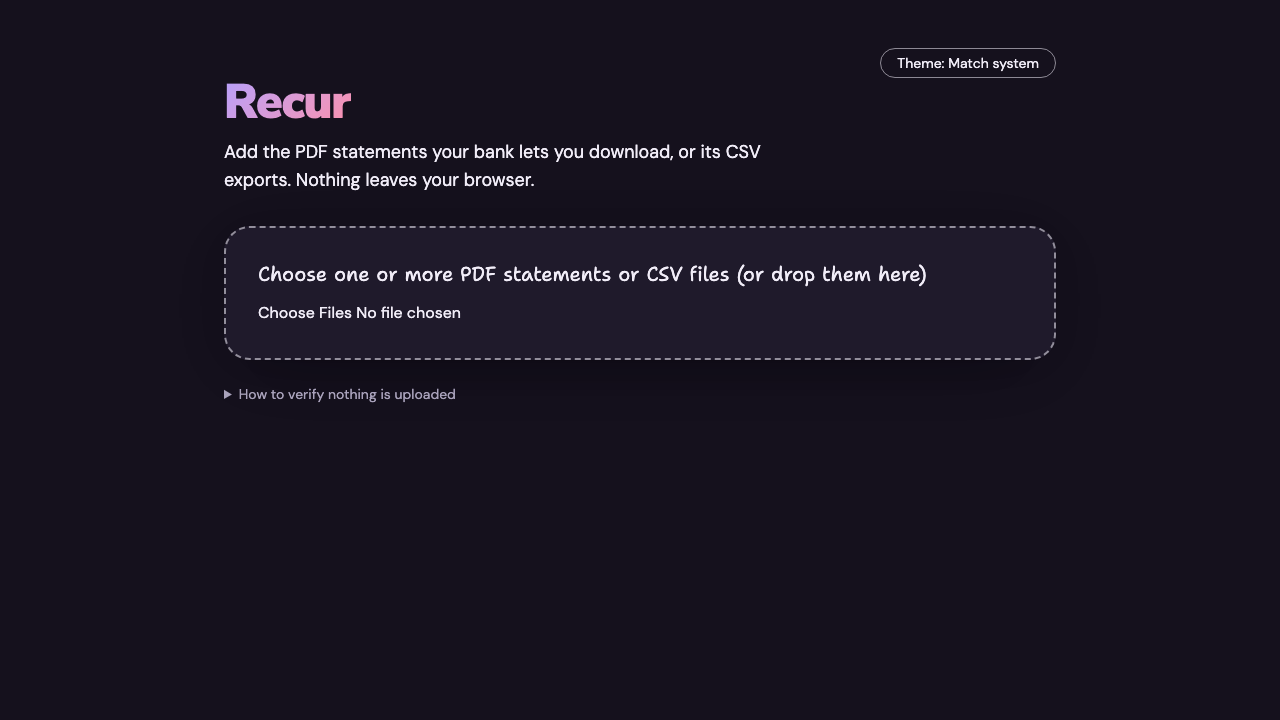
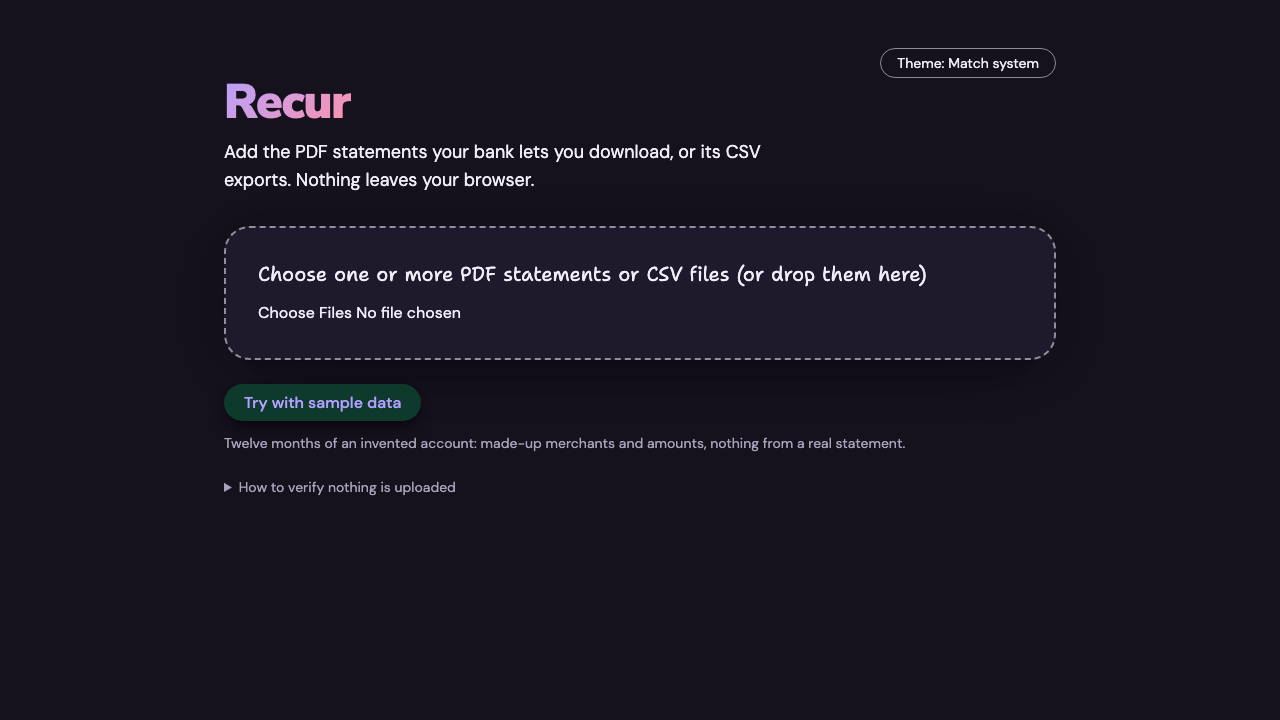
Add a one-click sample data demo (AC-10, part) (#63)

Changed region(s): [[0.1562, 0.5194, 0.7188, 0.6417], [0.1875, 0.6722, 0.3438, 0.7028]]

diff --git a/e2e/demo.spec.ts b/e2e/demo.spec.ts
@@ -1,0 +1,41 @@
+import AxeBuilder from "@axe-core/playwright";
+import { expect, test } from "@playwright/test";
+
+test("the sample data loads with one click, verifies, and makes no request", async ({
+  page,
+}) => {
+  const origin = "http://localhost:4173";
+  const offenders: string[] = [];
+  page.on("request", (req) => {
+    const url = new URL(req.url());
+    if (url.protocol === "data:") return;
+    if (url.origin !== origin || req.postData() !== null)
+      offenders.push(req.url());
+  });
+  await page.goto("/");
+  await expect(page.getByTestId("readout")).toHaveCount(0);
+  await page.getByRole("button", { name: "Try with sample data" }).click();
+  await expect(page.getByText(/^Verified:/).first()).toBeVisible();
+  await expect(page.getByTestId("readout")).toBeVisible();
+  await expect(
+    page.getByTestId("readout").getByRole("row", { name: /Corner Cafe/ }),
+  ).toBeVisible();
+  await expect(
+    page.getByTestId("readout").getByRole("row", { name: /Ironworks Gym/ }),
+  ).toBeVisible();
+  await page.getByTestId("readout").screenshot({
+    path: "docs/evidence/demo-loaded.png",
+  });
+  const { violations } = await new AxeBuilder({ page })
+    .withTags(["wcag2a", "wcag2aa", "wcag21a", "wcag21aa"])
+    .analyze();
+  expect(violations.map((v) => v.id)).toEqual([]);
+  expect(offenders).toEqual([]);
+});
+
+test("the sample can be removed like any file", async ({ page }) => {
+  await page.goto("/");
+  await page.getByRole("button", { name: "Try with sample data" }).click();
+  await page.getByRole("button", { name: "Remove file" }).click();
+  await expect(page.getByTestId("readout")).toHaveCount(0);
+});

diff --git a/src/ui/Importer.tsx b/src/ui/Importer.tsx
@@ -14,6 +14,7 @@ import type {
 } from "../core/types";
 import { type ImportedFile, summarize } from "./accounts";
 import { analyzeCsv, applyChoices, columnRoles } from "./analyze";
+import demoCsv from "./demo/sample-chequing.csv?raw";
 import { Readout } from "./Readout";
 import { verifiedIds } from "./readoutView";
 import { readPdf } from "./readPdf";
@@ -207,7 +208,7 @@ export function Importer() {
   const [labels, setLabels] = useState<LabelFile>({ version: 1, labels: [] });
   const nextId = useRef(1);
 
-  async function addFiles(list: FileList | null) {
+  async function addFiles(list: ArrayLike<File> | null) {
     if (!list) return;
     const added: Entry[] = [];
     const failed: string[] = [];
@@ -369,6 +370,23 @@ export function Importer() {
           }}
         />
       </label>
+      <div className="flex flex-wrap items-center gap-3">
+        <button
+          type="button"
+          className={BTN}
+          onClick={() =>
+            void addFiles([
+              new File([demoCsv], "sample-chequing.csv", { type: "text/csv" }),
+            ])
+          }
+        >
+          Try with sample data
+        </button>
+        <p className={FINE}>
+          Twelve months of an invented account: made-up merchants and amounts,
+          nothing from a real statement.
+        </p>
+      </div>
 
       {errors.map((m) => (
         <p

diff --git a/tools/demoCsv.test.ts b/tools/demoCsv.test.ts
@@ -1,0 +1,22 @@
+import { readFileSync } from "node:fs";
+import { expect, test } from "vitest";
+import { toStatement } from "../src/core/csv/toStatement";
+import { reconcile } from "../src/core/reconcile";
+import { analyzeCsv } from "../src/ui/analyze";
+import { demoCsv } from "./demoCsv";
+
+const committed = readFileSync("src/ui/demo/sample-chequing.csv", "utf8");
+
+test("the committed demo file is what `npm run demo:build` writes", () => {
+  expect(committed).toBe(demoCsv());
+});
+
+test("the demo file imports without questions and verifies", () => {
+  const a = analyzeCsv(committed);
+  expect(a.status).toBe("ready");
+  if (a.status !== "ready") return;
+  const s = toStatement(a.rows, a.mapping, { kind: "deposit" });
+  expect(s.ok).toBe(true);
+  if (!s.ok) return;
+  expect(reconcile(s.statement).status).toBe("verified");
+});

diff --git a/tools/demoCsv.ts b/tools/demoCsv.ts
@@ -1,0 +1,13 @@
+import { generateLedger, type Layout, renderCsv } from "./make-synthetic";
+
+const LAYOUT: Layout = {
+  name: "demo",
+  header: true,
+  amount: "split",
+  balance: true,
+  dateFormat: "YYYY-MM-DD",
+};
+
+/** The bundled sample file: one invented chequing account, twelve months, every balance printed. */
+export const demoCsv = (): string =>
+  renderCsv(generateLedger(1, 12, 2025), LAYOUT);

diff --git a/tools/demo-build.ts b/tools/demo-build.ts
@@ -1,0 +1,9 @@
+// Local CLI: regenerate the bundled demo file from the seeded synthetic generator.
+//
+//   npm run demo:build
+
+import { writeFileSync } from "node:fs";
+import { demoCsv } from "./demoCsv";
+
+writeFileSync("src/ui/demo/sample-chequing.csv", demoCsv());
+console.log("demo: wrote src/ui/demo/sample-chequing.csv");

diff --git a/docs/PROGRESS.md b/docs/PROGRESS.md
@@ -148,7 +148,7 @@ Queued by the autonomous workflow. Claude does not attempt these.
 | AC-7  | ≥ 80% of hand-listed subscriptions found     | —       |                                                                                                                                                                                                                                  |
 | AC-8  | CSV round-trip and injection safety          | Met     | `src/core/exportCsv.test.ts`: fast-check round trip through `readCsv` and `toStatement`; one account re-imports through `mapColumns` to an identical, verified ledger; formula cells prefixed, amounts plain numbers (M3 task 6) |
 | AC-9  | 12 files in under 5 s                        | Met     | `e2e/offline-timing.spec.ts`: 12 one-year CSVs and 12 monthly PDFs each under 5 s (local: 81 ms and 98 ms)                                                                                                                       |
-| AC-10 | Demo works with no user file                 | —       |                                                                                                                                                                                                                                  |
+| AC-10 | Demo works with no user file                 | Partial | One click loads a verified sample file with no file and no request (`e2e/demo.spec.ts`); "shows recurring charges" waits for #34                                                                                                 |
 | AC-11 | CSP header on the deployed site              | —       |                                                                                                                                                                                                                                  |
 | AC-12 | README complete                              | —       |                                                                                                                                                                                                                                  |
 | AC-13 | Stage 2: one PDF format (TD), three fixtures | —       |                                                                                                                                                                                                                                  |
@@ -170,6 +170,10 @@ Queued by the autonomous workflow. Claude does not attempt these.
 ## Session log
 
 Newest first. One entry per session: date, what changed, what was verified, what is next.
+
+### 2026-11-26 — Demo mode (#36 part 4, AC-10 partly)
+
+- "Try with sample data" button under the drop zone loads a bundled invented file (`src/ui/demo/sample-chequing.csv`: 12 months, 191 rows, debit and credit columns with a balance, so it is ready without questions and Verified) through the same path as a dropped file; it is removed like any file and makes no request. The file is generated by `npm run demo:build` from the seeded generator (`tools/demoCsv.ts`); a test fails if the committed file drifts from the generator and another checks it imports and verifies. Evidence: `e2e/demo.spec.ts` (one click, Verified, readout rows, no cross-origin request or body, axe), `docs/evidence/demo-loaded.png`. AC-10 is partial: it also says the demo shows recurring charges, which needs #34; the demo data should then gain the annual charge ROADMAP M3 task 4 asks for (the generator has the price rise but no annual charge). Skill used: `agent-skills:frontend-ui-engineering`. Previous PR (#62): one review round with two non-blocking notes (labels stay in memory after all files are removed; a generic message for an over-long key), CI passed first time.
 
 ### 2026-11-26 — Label UI (#36 part 3, AC-18)
 
